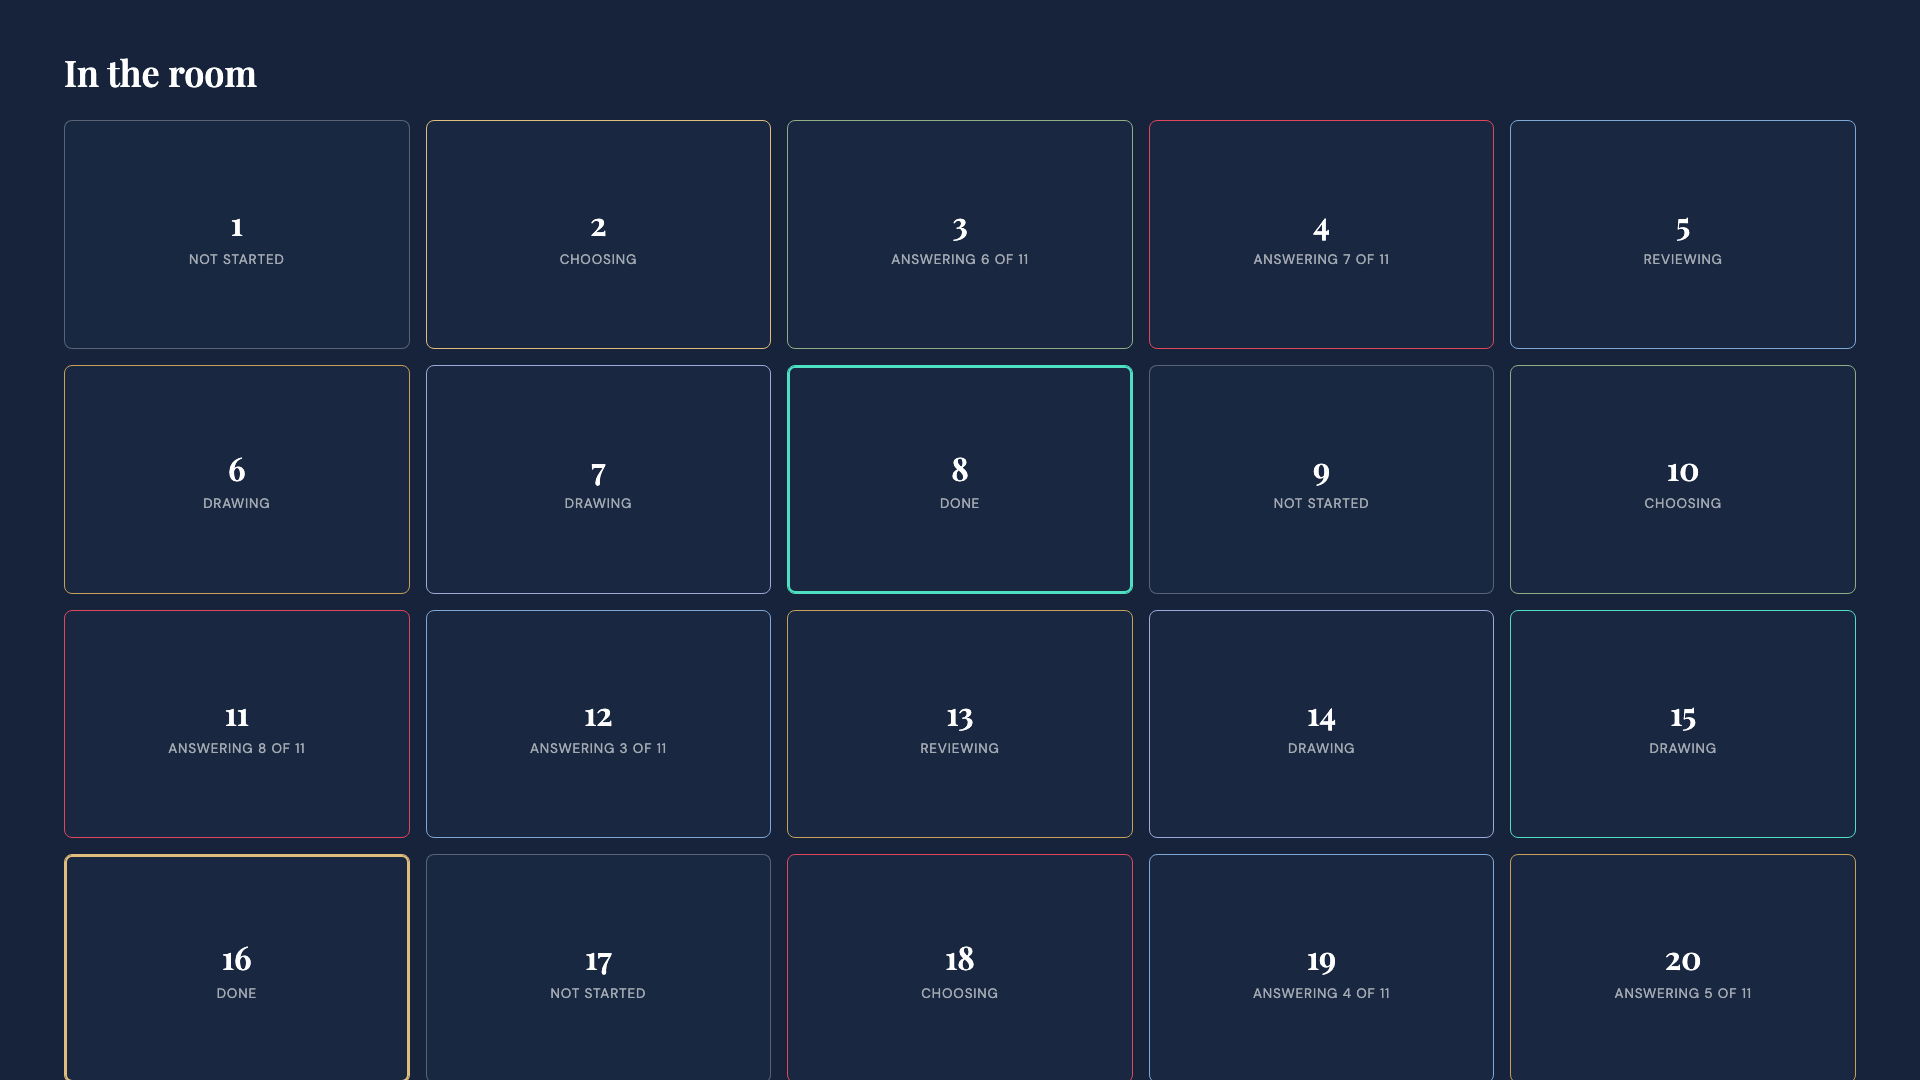
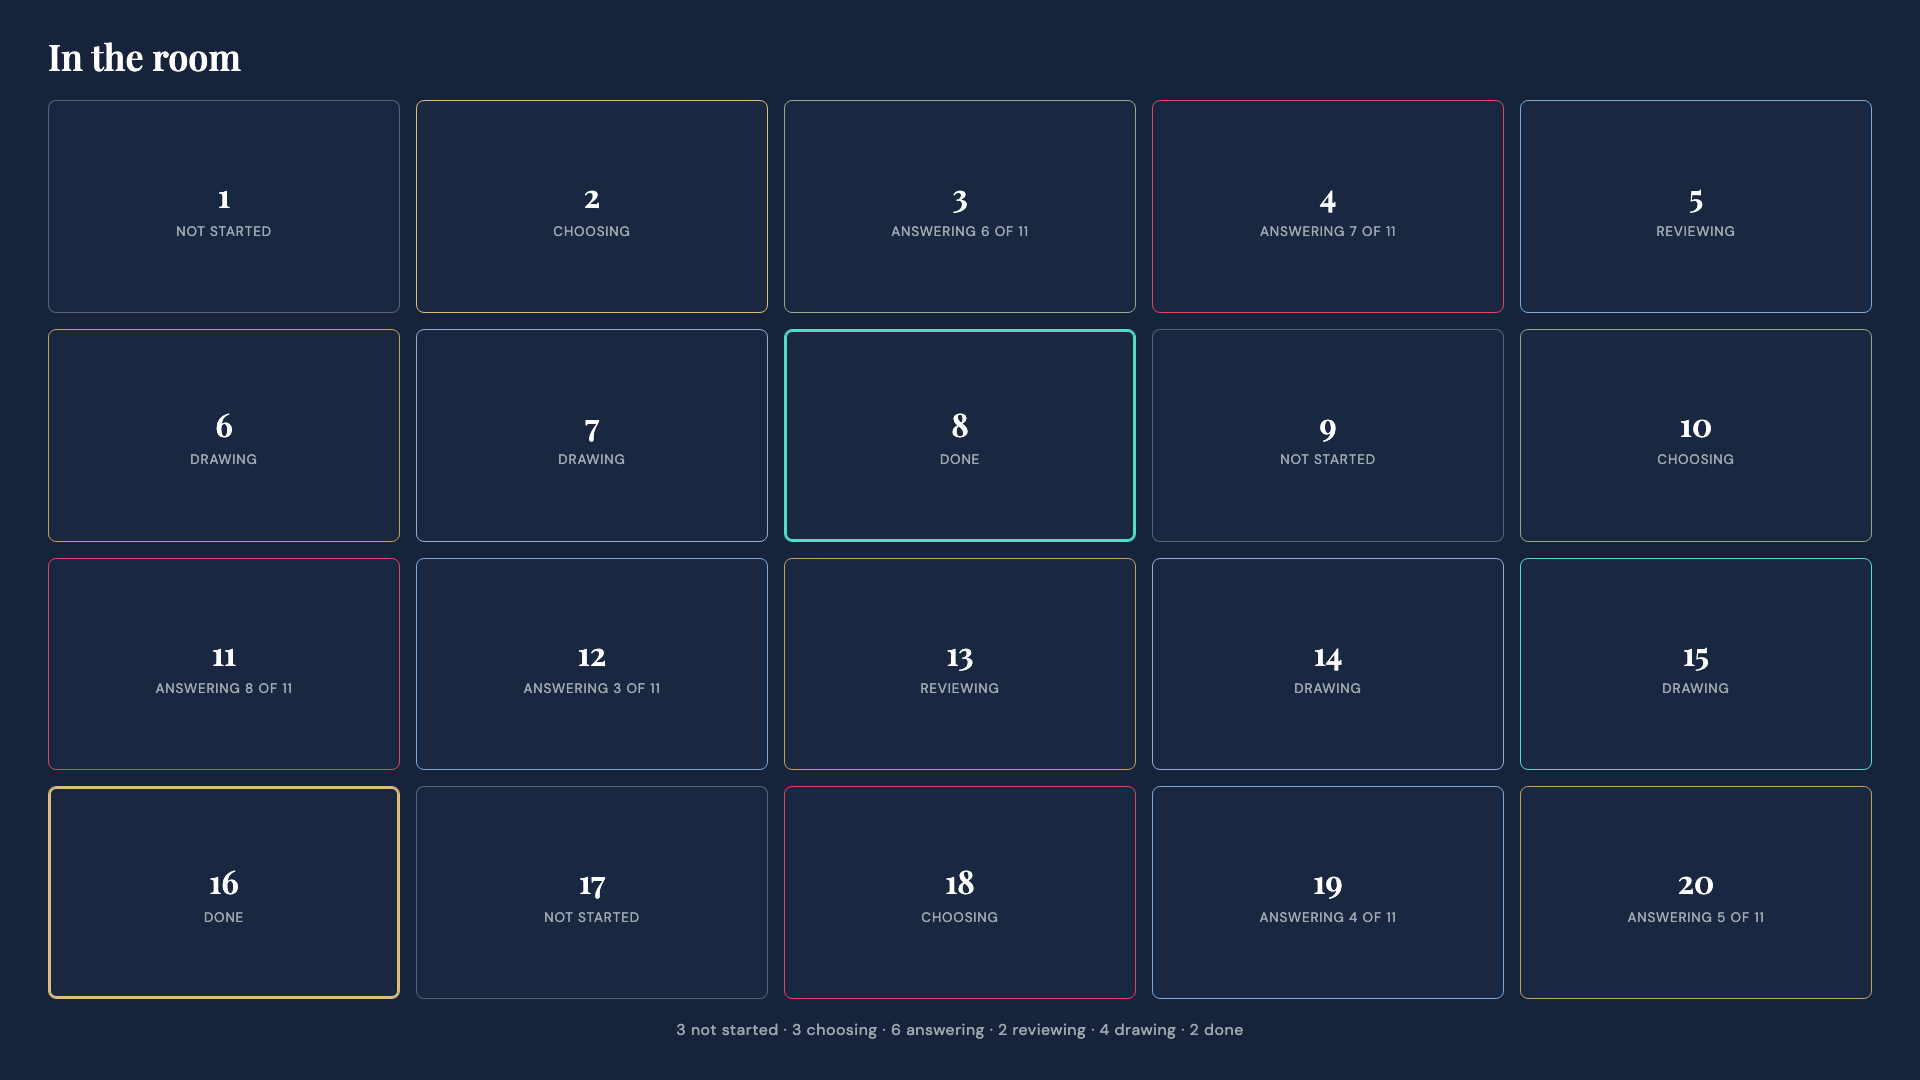
fix(projector): Reveal grid clipped row 4 at 1920x1080
height:100% combined with content-box padding pushed both grids' border
box past the viewport, silently clipped by the projector root's
overflow:hidden — Reveal lost tables 16-20 entirely; Progress had the
same latent bug (padding 3rem, not yet visibly clipping only because its
rows happened to fit anyway). Fixed both: box-sizing:border-box
throughout, flex column + `flex:1`/`min-height:0` on the grid instead of
height:100%. Also dimmed Reveal's "no image yet" tiles (dashed border,
lower opacity, muted table number) so the eye goes to what's actually
drawn.

Re-captured docs/screens/projector-{progress,reveal}.png at 1920x1080 —
all 20 tiles fit with margin, no scroll.

Claude-Session: https://claude.ai/code/session_013nLucFXCUYBvG6fEPKyxjF

diff --git a/src/lib/ui/projector/Reveal.svelte b/src/lib/ui/projector/Reveal.svelte
@@ -15,10 +15,11 @@
 
 <!-- Reveal beat (game-flow.md §4, tag C): plain 5x4 grid, one tile per table. -->
 <section class="reveal">
+	<header>Every table</header>
 	<div class="grid">
 		{#each tables as t (t.table)}
 			{@const img = firstImage(t)}
-			<figure class="cell">
+			<figure class="cell" class:empty-cell={!img}>
 				{#if img}
 					<img src={img.url} alt="Table {t.table} zone render" loading="lazy" />
 				{:else}
@@ -34,12 +35,34 @@
 </section>
 
 <style>
+	/* box-sizing:border-box throughout — the previous `height:100%` +
+	   content-box padding combination pushed the border box past the
+	   viewport (overflow silently clipped by the projector root's
+	   `overflow:hidden`), which is why row 4 (tables 16-20) went missing at
+	   1920x1080. Flex column + `flex:1` + `min-height:0` on `.grid` (not
+	   `height:100%`) is what actually keeps 20 tiles inside one screen with
+	   no page scroll, ever. */
+	.reveal,
+	.reveal * {
+		box-sizing: border-box;
+	}
 	.reveal {
 		height: 100%;
-		padding: 2rem;
+		display: flex;
+		flex-direction: column;
+		padding: 1.25rem 2rem 2rem;
+		gap: 0.75rem;
+	}
+	header {
+		flex: 0 0 auto;
+		font-size: 0.85rem;
+		text-transform: uppercase;
+		letter-spacing: 0.08em;
+		color: var(--ink-muted);
 	}
 	.grid {
-		height: 100%;
+		flex: 1;
+		min-height: 0;
 		display: grid;
 		grid-template-columns: repeat(5, 1fr);
 		grid-template-rows: repeat(4, 1fr);
@@ -52,6 +75,7 @@
 		overflow: hidden;
 		background: var(--card);
 		display: flex;
+		min-height: 0;
 	}
 	.cell img {
 		width: 100%;
@@ -59,13 +83,20 @@
 		object-fit: cover;
 		display: block;
 	}
+	/* Quieter than a drawn tile, on purpose — the eye should land on what
+	   exists, not on the 20-tile placeholder grid around it. */
+	.cell.empty-cell {
+		background: transparent;
+		border: 1px dashed var(--line);
+		opacity: 0.55;
+	}
 	.empty {
 		flex: 1;
 		display: flex;
 		align-items: center;
 		justify-content: center;
 		color: var(--ink-muted);
-		font-size: 0.85rem;
+		font-size: 0.8rem;
 		text-transform: uppercase;
 		letter-spacing: 0.06em;
 	}
@@ -78,8 +109,15 @@
 		background: linear-gradient(0deg, rgba(0, 0, 0, 0.65), transparent);
 		font-size: 0.85rem;
 	}
+	.empty-cell figcaption {
+		background: none;
+	}
 	.table-no {
 		font-weight: 700;
+	}
+	.empty-cell .table-no {
+		font-weight: 500;
+		color: var(--ink-muted);
 	}
 	.future {
 		color: var(--gold);

diff --git a/src/lib/ui/projector/Progress.svelte b/src/lib/ui/projector/Progress.svelte
@@ -42,12 +42,20 @@
 </section>
 
 <style>
+	/* border-box, not content-box: `height:100%` plus content-box padding
+	   pushes the border box past the viewport (silently clipped by the
+	   projector root's `overflow:hidden`) — the same bug fixed in
+	   Reveal.svelte, hardened here before it shows up the same way. */
+	.progress,
+	.progress * {
+		box-sizing: border-box;
+	}
 	.progress {
 		height: 100%;
 		display: flex;
 		flex-direction: column;
-		padding: 3rem 4rem;
-		gap: 1.5rem;
+		padding: 2rem 3rem 2.5rem;
+		gap: 1.25rem;
 	}
 	h2 {
 		font-family: 'Playfair Display', Georgia, serif;
@@ -57,6 +65,7 @@
 	}
 	.grid {
 		flex: 1;
+		min-height: 0;
 		display: grid;
 		grid-template-columns: repeat(5, 1fr);
 		grid-template-rows: repeat(4, 1fr);
